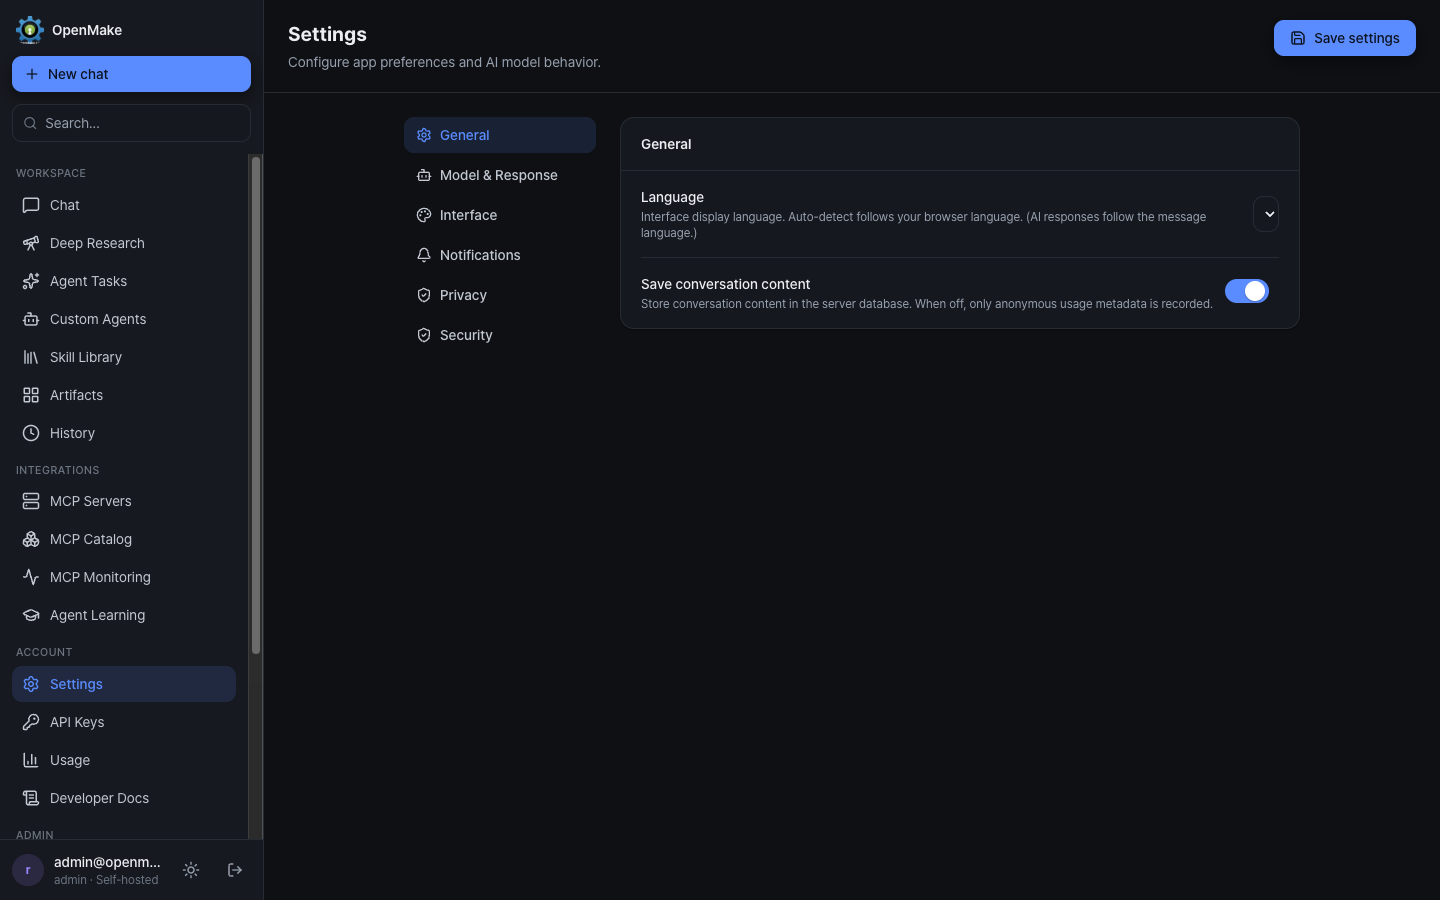
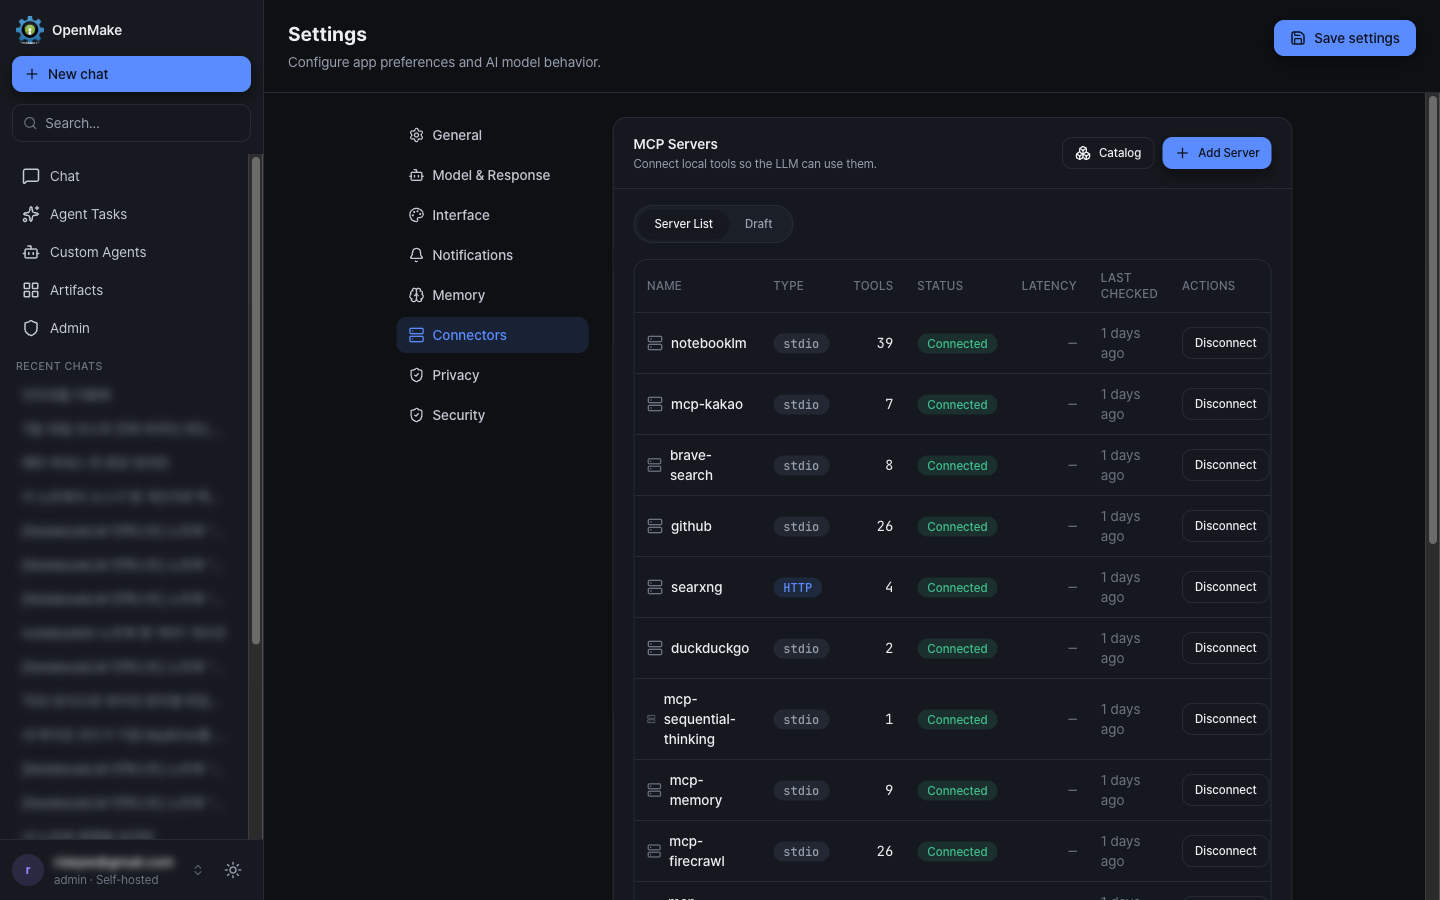
docs(readme): 신규 기능 반영 + 스크린샷 전면 갱신
- NotebookLM 컨텍스트 그라운딩(컴포저 피커·카탈로그 tool allowlist) 추가
- 단일 실행 경로 확정 반영 — 아키텍처 다이어그램의 폐기된 strategy dispatch 교체
- tail 라우팅(셰도우/Stage 2B, 기본 OFF), 에이전트 작업 템플릿·반복 스케줄 기술
- OpenAI 호환 API artifacts 확장 + publish_artifacts, Discord 첨부 전달 기술
- 스크린샷 7종 재촬영(5항목 내비·모드 메뉴·노트북 피커·에이전트 작업·Connectors·모델 역할·스킬 라이브러리)
  — 대화 제목·노트북명·계정 이메일은 블러 처리

diff --git a/README.md b/README.md
@@ -32,6 +32,7 @@ Every request flows through a lightweight, deterministic policy layer — **`Exe
 | 🎛️ **Role-based model orchestration** | Assign a different model (local or BYOK external) per functional role; per-user + admin-global mappings, server-shared keys with token budgets |
 | 🤖 **Autonomous agents** | Manus-style multi-turn agent in a persistent Docker sandbox (shell · Python · browser · files), with human-in-the-loop approval |
 | 🔬 **Deep research** | Fan-out web search → source fetch → claim verification → cited synthesis |
+| 📓 **NotebookLM grounding** | Pin one of your Google NotebookLM notebooks as conversation context, straight from the composer |
 | 🧩 **22 built-in MCP tools** + external MCP servers | Each external server isolated in Docker (`--cap-drop ALL`, non-root, network policy) |
 | 👤 **Custom agents & skills** | Project-scoped personas (with optional per-agent model) + an auto-selectable skill library + 18 industry agents (100 specialists) |
 | 💬 **Discord gateway bot** | Optional workspace relaying Discord messages to the OpenAI-compatible API, with role/mention access control |
@@ -42,10 +43,32 @@ Every request flows through a lightweight, deterministic policy layer — **`Exe
 
 ## Screenshots
 
-**Chat workspace** — multi-model orchestration, mode toggles (Discussion / Thinking / Deep Research / Web / Agent), and slash-invoked skills:
+> Conversation titles, notebook names, and the account email are blurred — everything else is the running app.
+
+**Chat workspace** — a five-item workspace nav, model selector, response style, and slash-invoked skills:
 
 <p align="center">
   <img src="assets/screenshot-chat.png" alt="Chat workspace" width="920" />
+</p>
+
+| Mode menu — Discussion / Thinking / Deep Research / Web / Agent / Image / Artifact / Structured | NotebookLM picker — pin a notebook as conversation context |
+|---|---|
+| ![Composer mode menu](assets/screenshot-composer-modes.png) | ![NotebookLM notebook picker](assets/screenshot-notebook-picker.png) |
+
+**Agent tasks** — autonomous multi-turn runs with live progress, token accounting, recurring schedules, and reusable task templates:
+
+<p align="center">
+  <img src="assets/screenshot-agent-tasks.png" alt="Agent task management" width="920" />
+</p>
+
+| Connectors — external MCP servers, each Docker-isolated | Model Roles Admin — global role→model mappings |
+|---|---|
+| ![Settings → Connectors](assets/screenshot-settings.png) | ![Model roles admin](assets/screenshot-model-roles.png) |
+
+**Skill Library** — reusable manifests with tool bindings, importable from Git or generated by the model:
+
+<p align="center">
+  <img src="assets/screenshot-skill-library.png" alt="Skill Library" width="920" />
 </p>
 
 **Multilingual UI (한국어 · English · 日本語 · 简体中文)** — switch the interface language in Settings, or let it follow your browser (`Accept-Language`). AI response language independently follows the message language:
@@ -53,10 +76,6 @@ Every request flows through a lightweight, deterministic policy layer — **`Exe
 <p align="center">
   <img src="assets/i18n-demo.gif" alt="Interface language switching demo (ko / en / ja / zh)" width="920" />
 </p>
-
-| Settings — language & privacy | Skill Library — auto-selectable skills |
-|---|---|
-| ![Settings page](assets/screenshot-settings.png) | ![Skill Library page](assets/screenshot-skill-library.png) |
 
 ---
 
@@ -74,8 +93,9 @@ OpenMake separates **policy** (deciding *how* to answer) from **execution** (act
                      └────────┬─────────┘   │  · assemble system prompt & tools
                               │              (no extra LLM round-trip)
                      ┌────────▼─────────┐
-                     │  strategy dispatch │  local → streamFromExternalProvider (default)
-                     └────────┬─────────┘   external → provider-specific tool loop
+                     │streamFromExternal- │  single path — local & external alike
+                     │      Provider      │  · always-on MCP tool loop (5 turns)
+                     └────────┬─────────┘   · Discussion / Deep Research intercept earlier
                      ┌────────▼─────────┐
                      │   LLMClient.chat   │  execution — per call
                      │  (context-fit net) │  · token estimate → truncate → cap
@@ -84,6 +104,7 @@ OpenMake separates **policy** (deciding *how* to answer) from **execution** (act
               vLLM serve → LiteLLM proxy (OpenAI-compatible)
 ```
 
+- **One execution path** — the former per-strategy layer (generate-verify, agent-loop, thinking, direct) was retired: local and external models now share a single `streamFromExternalProvider` dispatch with an always-on MCP tool loop. Discussion and Deep Research remain separate modes intercepted before dispatch.
 - **Context-fit safety net** — on entry, prompt tokens (images included) are estimated; if the effective **262K** window is exceeded, input is truncated → `max_tokens` reduced → in the extreme, a `ContextOverflowError` returns **HTTP 413** with an audit record and an automatic webhook alert.
 - **User customization (4 orthogonal axes)** — **Model** (selector) · **Style** (Concise / Default / Verbose) · **Mode** (Discussion / Thinking / Deep Research / Web / Agent Task) · **Custom Instructions & Agents**. System-prompt assembly order: `memory + custom-instructions + style`.
 - **Role-based model orchestration** — every LLM-calling subsystem resolves its model through a single role registry with a fail-open fallback chain: per-user mapping → admin-set global (DB) → global env → local default. External models per role run on the user's BYOK key, or on a server-shared operator key (with daily/monthly token budgets) for global roles. Custom agents can also pin their own model.
@@ -98,22 +119,25 @@ OpenMake separates **policy** (deciding *how* to answer) from **execution** (act
 - Single local model routed per request by the `ExecutionPlanBuilder` policy layer; behavior controlled by orthogonal axes (Model · Style · Mode · Custom Agent).
 - Self-hosted vLLM + LiteLLM (default `qwen3.6-35b-a3b`) with a context-fit safety net that protects output tokens and degrades gracefully on overflow.
 - Bring-your-own external keys — **OpenRouter, NVIDIA NIM, Ollama** (local + cloud), all OpenAI-compatible (an Anthropic adapter is built into the provider abstraction) — AES-256-GCM encrypted at rest. **Guests use the default local model only** — external providers require sign-in.
-- **Role-based model orchestration** — assign a different model (local or BYOK external) to each functional role (`agent`, `judge`, `research`, `spawn`, `review`, `summary`) via Settings; admins set org-wide defaults and register server-shared external keys with per-key token budgets in an admin console. Resolution is fail-open (falls back to the local default on any failure).
+- **Role-based model orchestration** — assign a different model (local or BYOK external) to each functional role (`agent`, `judge`, `research`, `spawn`, `review`, `summary`) via Settings; admins set org-wide defaults and register server-shared external keys with per-key token budgets in an admin console. Resolution is fail-open (falls back to the local default on any failure). Model lists filter down to what is actually reachable and role-capable.
+- **Tail routing (opt-in, off by default)** — a lightweight gate scores each query's error likelihood; when it judges a query as *factual tail* (likely to be answered wrong, externally verifiable), `web_search` is deterministically forced on the first turn. Ships with a shadow mode (`TAIL_ROUTING_SHADOW_ENABLED`) that records gate decisions without changing behavior, so thresholds can be tuned on real traffic before `TAIL_ROUTING_STAGE2B_ENABLED` is switched on.
 
 **▸ Agents & research**
-- **Autonomous agent tasks** — a Manus-style agent pursues a goal across multiple tool-calling turns inside a **persistent Docker sandbox** (shell, Python, browser, file, planning tools) with human-in-the-loop approval. It records file attachments, injects images through a vision channel, produces deliverables including **Excel (.xlsx)** and **PDF** (with Korean/CJK fonts), and honestly reports non-achievement (`[GOAL_INCOMPLETE]` marker + goal judge) instead of falsely marking "done".
+- **Autonomous agent tasks** — a Manus-style agent pursues a goal across multiple tool-calling turns inside a **persistent Docker sandbox** (shell, Python, browser, file, planning tools) with human-in-the-loop approval. It records file attachments, injects images through a vision channel, produces deliverables including **Excel (.xlsx)** and **PDF** (with Korean/CJK fonts), and honestly reports non-achievement (`[GOAL_INCOMPLETE]` marker + goal judge) instead of falsely marking "done". Tasks can be saved as **reusable templates** or put on a **recurring schedule**.
 - **Deep research** — fan-out web search → source fetch → claim verification → cited synthesis.
 - **Custom agents & skills** — project-scoped agents (claude.ai Projects equivalent) selectable directly from the composer, each optionally pinned to its own model, plus an auto-selectable skill library and 18 built-in industry agents (100 specialists).
 
 **▸ Tools & extensibility**
-- **MCP tool system** — 22 built-in tools (web search, fact-check, web scrape/map/crawl, image analysis, agent-task control, skill/agent/MCP git-ingest, …) plus external MCP servers, each isolated in Docker (`--cap-drop ALL`, non-root, `--memory`+`--memory-swap`, network policy, realpath-guarded mounts).
-- **Artifacts** — live sandboxed iframe rendering, optional Docker code execution (Python / JS), a resizable side panel, and a separate-origin strict-CSP shared viewer for publishing.
+- **MCP tool system** — 22 built-in tools (web search, fact-check, web scrape/map/crawl, image analysis, agent-task control, skill/agent/MCP git-ingest, …) plus external MCP servers, each isolated in Docker (`--cap-drop ALL`, non-root, `--memory`+`--memory-swap`, network policy, realpath-guarded mounts). Install servers from the MCP catalog in **Settings → Connectors**; a catalog-level **tool allowlist** keeps chat auto-exposure focused (a 39-tool server need not dump 39 schemas into every prompt) while REST execution and the explicit tool picker keep full access.
+- **NotebookLM grounding** — install the NotebookLM connector with your own Google session cookie (AES-256-GCM encrypted, injected only at spawn), then pin a notebook from the composer. The grounding prefix rides an LLM-only channel, so stored messages and sidebar titles stay clean, and the pin is scoped to one conversation.
+- **Artifacts** — live sandboxed iframe rendering, optional Docker code execution (Python / JS), a resizable side panel, and a separate-origin strict-CSP shared viewer for publishing. The OpenAI-compatible API returns artifacts as a `message.artifacts` extension, and `publish_artifacts: true` makes the server mint share links for API-key clients that cannot publish themselves.
 - **Memory & instructions** — persistent cross-conversation memory (with a per-session usage toggle) and always-on custom instructions.
 - **Thinking display** — Claude-web-style reasoning timeline with a live one-line headline (generated by a dedicated summary model), persisted and restored on re-open.
 - **Multilingual UI** — Korean, English, Japanese, and Simplified Chinese via `next-intl` (cookie-based locale, browser auto-detect, locale-aware date/number formatting).
 
 **▸ Integrations**
-- **Discord gateway bot** (`apps/discord-bot`) — an optional standalone workspace that relays Discord messages to `/api/v1/chat/completions`, with per-user session isolation (`/reset`), role/mention access control, and API-key auth. Runs as its own PM2 process.
+- **Discord gateway bot** (`apps/discord-bot`) — an optional standalone workspace that relays Discord messages to `/api/v1/chat/completions`, with per-user session isolation (`/reset`), role/mention access control, and API-key auth. Generated images and artifacts come back as real Discord file attachments (with share links), since Discord cannot render the API's relative paths or placeholders. Runs as its own PM2 process.
+- **NotebookLM** — `GET /api/mcp/notebooklm/notebooks` backs the composer picker (per-user cache, upstream failures converged to `502 NOTEBOOKLM_UPSTREAM` so the UI can prompt a reconnect when the Google cookie expires).
 
 **▸ Security**
 - JWT in HttpOnly cookies, Google OAuth 2.0, RBAC, per-user & per-route rate limiting, SSRF guard, Helmet headers, and a unified Audit ↔ Alert pipeline.